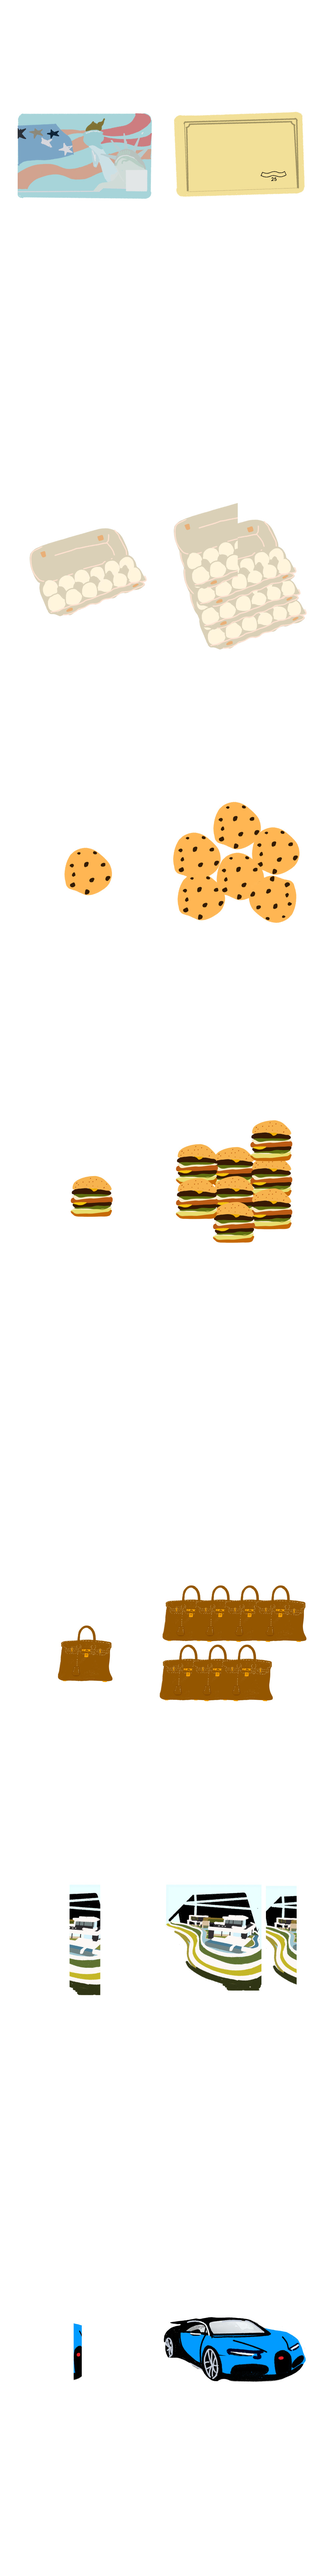
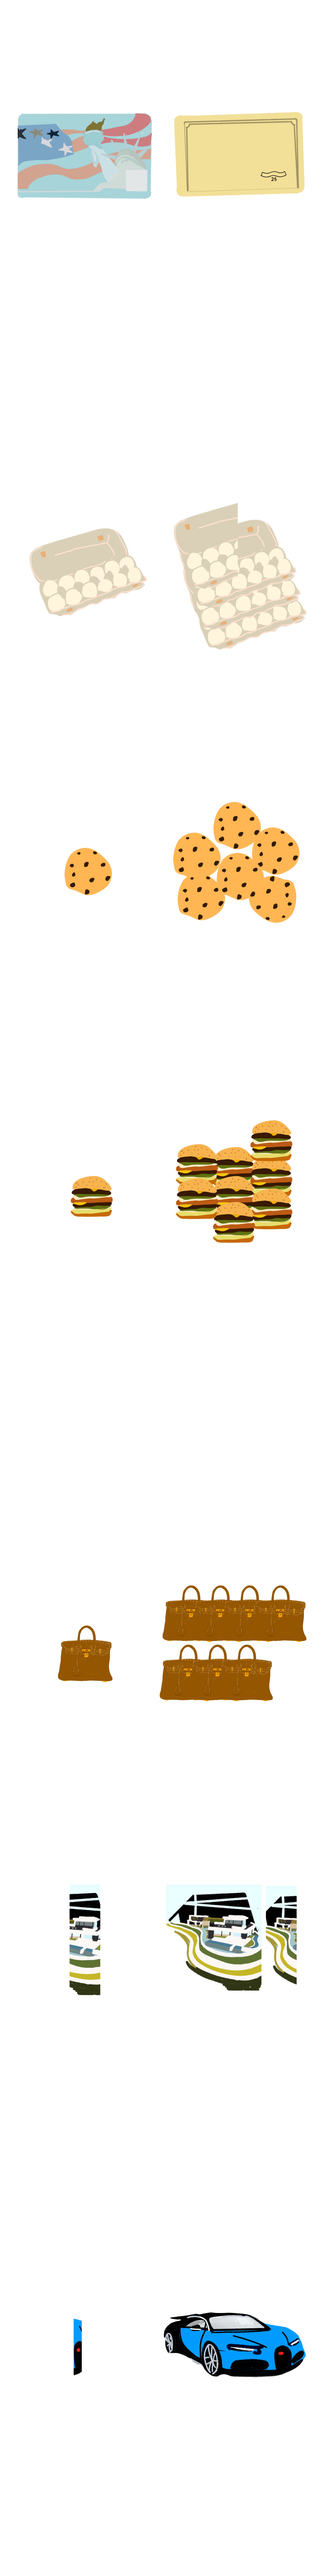
images-mobile

Changed region(s): [[0.4898, 0.8718, 0.949, 0.9341], [0.2143, 0.903, 0.2449, 0.9341]]

diff --git a/index.html b/index.html
@@ -484,7 +484,8 @@
 
 <div class="content"> 
   
-<!-- Generated by ai2html v0.121.1 - 2025-03-23 19:30 -->
+
+<!-- Generated by ai2html v0.121.1 - 2025-03-24 11:38 -->
 <!-- ai file: Priceflation.ai -->
 <style media="screen,print">
 	#g-Priceflation-box ,
@@ -513,7 +514,7 @@
 		overflow:hidden;
 	}
 	#g-Priceflation-full p {
-		font-family:AdobeHandwriting-Tiffany, 'Helvetica Neue', Helvetica, Arial, sans-serif;
+		font-family:AdobeHandwriting-Tiffany;
 		font-weight:regular;
 		line-height:48px;
 		opacity:1;
@@ -564,7 +565,7 @@
 		overflow:hidden;
 	}
 	#g-Priceflation-medium p {
-		font-family:AdobeHandwriting-Tiffany, 'Helvetica Neue', Helvetica, Arial, sans-serif;
+		font-family:AdobeHandwriting-Tiffany;
 		font-weight:regular;
 		line-height:36px;
 		opacity:1;
@@ -615,7 +616,7 @@
 		overflow:hidden;
 	}
 	#g-Priceflation-mobile p {
-		font-family:AdobeHandwriting-Tiffany, 'Helvetica Neue', Helvetica, Arial, sans-serif;
+		font-family:AdobeHandwriting-Tiffany;
 		font-weight:regular;
 		line-height:36px;
 		opacity:1;
@@ -1146,7 +1147,7 @@
 		}
 	})("g-Priceflation-box", {namespace: "g-", setup: window.setupInteractive || window.getComponent});
 </script>
-<!-- End ai2html - 2025-03-23 19:30 -->
+<!-- End ai2html - 2025-03-24 11:38 -->
 
 
 

diff --git a/ai2html-output/Priceflation.html b/ai2html-output/Priceflation.html
@@ -1,5 +1,5 @@
 
-<!-- Generated by ai2html v0.121.1 - 2025-03-23 19:30 -->
+<!-- Generated by ai2html v0.121.1 - 2025-03-24 11:38 -->
 <!-- ai file: Priceflation.ai -->
 <style media="screen,print">
 	#g-Priceflation-box ,
@@ -661,4 +661,4 @@
 		}
 	})("g-Priceflation-box", {namespace: "g-", setup: window.setupInteractive || window.getComponent});
 </script>
-<!-- End ai2html - 2025-03-23 19:30 -->
+<!-- End ai2html - 2025-03-24 11:38 -->
